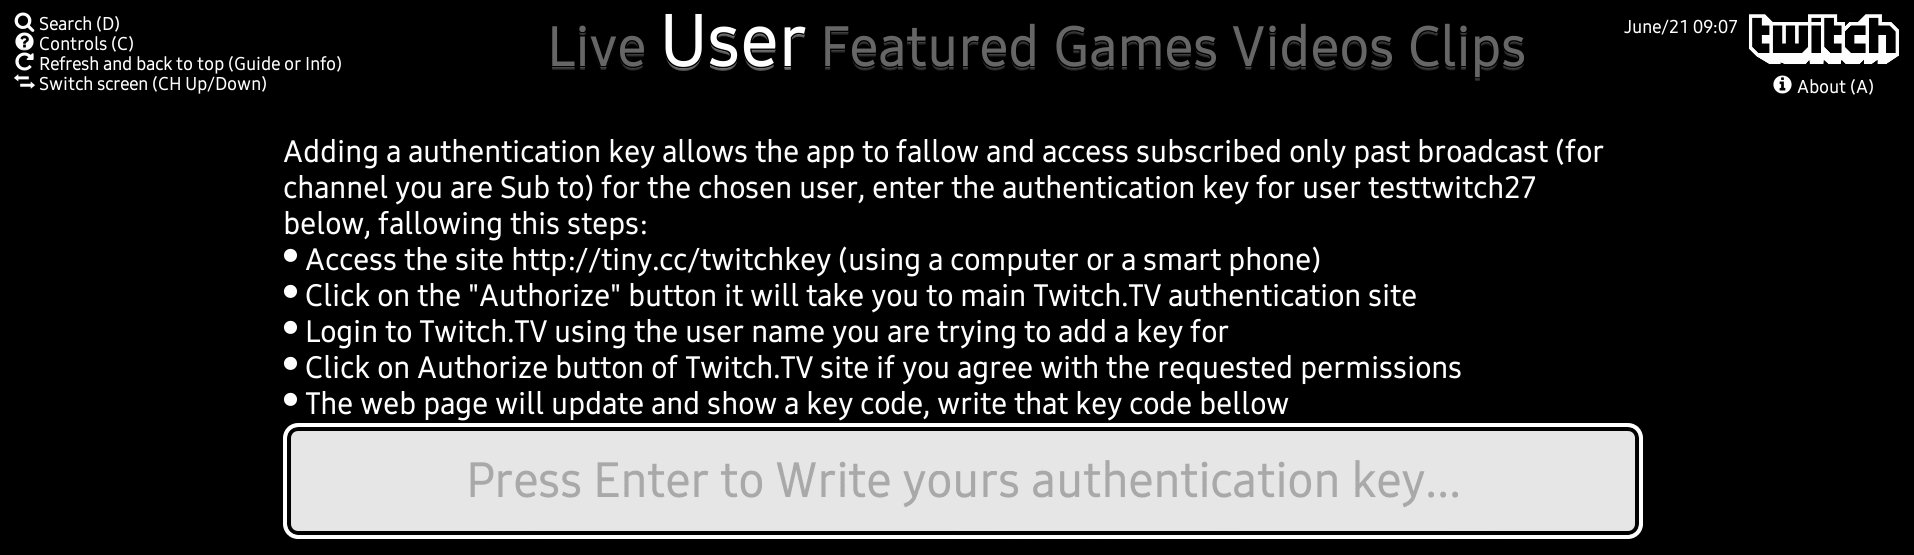
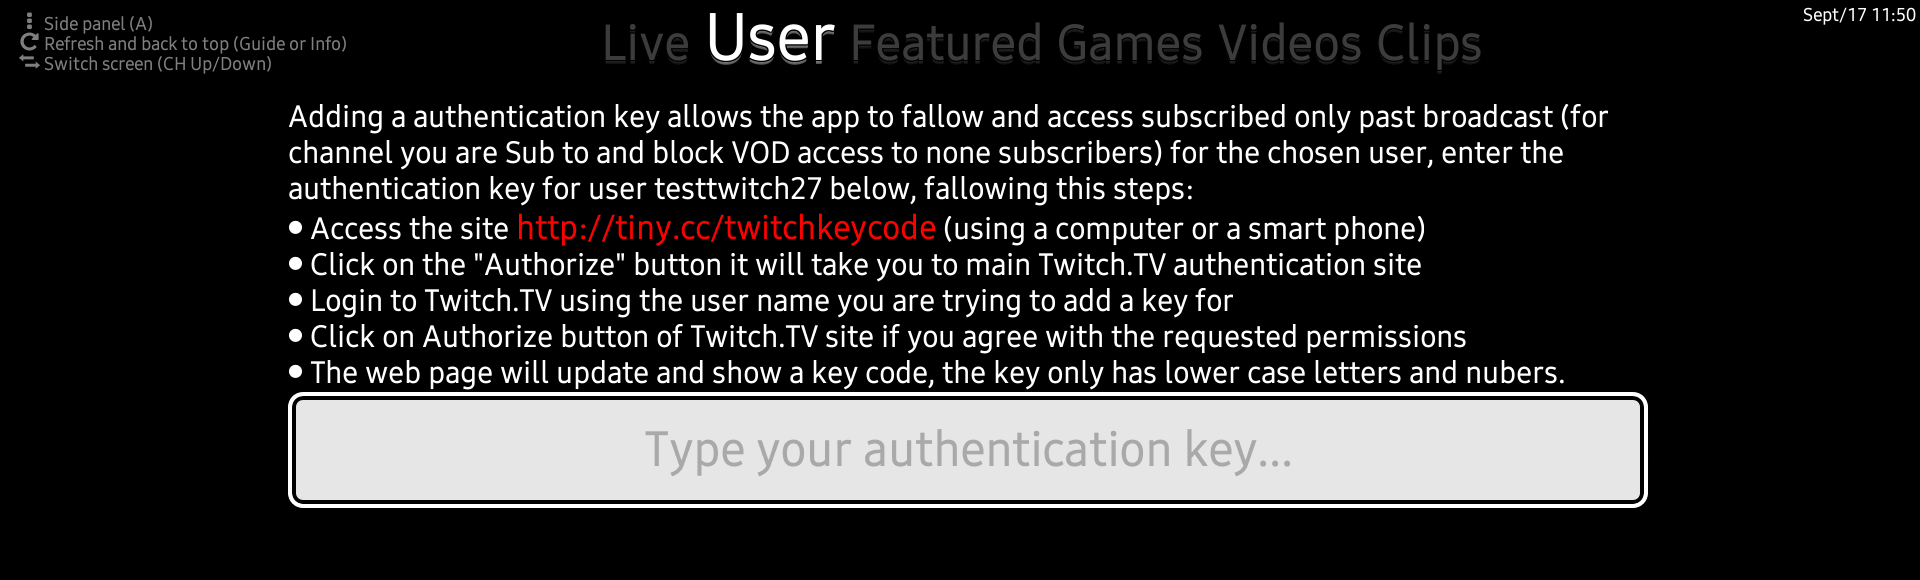
Update autentication key screen and screenshots

diff --git a/app/languages/pt_BR.js b/app/languages/pt_BR.js
@@ -117,11 +117,11 @@ function pt_BRLang() {
 
     STR_OAUTH_IN = "Adicionando uma chave de autenticação para um usuário, permite ao aplicativo seguir e assistir a transmissões anteriores reservadas somente para inscritos (Em canais que você é inscrito e bloqueião o conteudo para não inscritos), entre com a chave de autenticação do usuário ";
     STR_OAUTH_EXPLAIN1 = " abaixo seguidos os passos:";
-    STR_OAUTH_EXPLAIN2 = "Acesse o site http://tiny.cc/twitchkeycode (usando um computador ou smart phone)";
+    STR_OAUTH_EXPLAIN2 = "Acesse o site link_link (usando um computador ou smart phone)";
     STR_OAUTH_EXPLAIN3 = "Clique no botão \"Authorize\" assim vai abrir o site de autenticação do Twitch.TV";
     STR_OAUTH_EXPLAIN4 = "Faço login no Twitch.TV usando o usuário que você esta tentando adicionar a chave";
     STR_OAUTH_EXPLAIN5 = "Clique no botão de autorizar no site do Twitch.TV se você esta de acordo com as permissões";
-    STR_OAUTH_EXPLAIN6 = "A pagina vai atualizar e mostrar a chave de acesso no centro (só tem letra minuscula), escreva esta no aplicativo";
+    STR_OAUTH_EXPLAIN6 = "A pagina vai atualizar e mostrar a chave de acesso esta só tem letra minuscula e números";
     STR_USER_CODE = " Adicione uma chave de autenticação";
     STR_USER_CODE_OK = "Chave adicionada OK";
     STR_KEY_BAD = "O teste da chave falhou, sera necessário adicionar uma nova";

diff --git a/app/languages/en_US.js b/app/languages/en_US.js
@@ -130,11 +130,11 @@ function en_USLang() {
     STR_UPDATE_MAIN_3 = "Improves how the app runs in the background";
     STR_OAUTH_IN = "Adding a authentication key allows the app to fallow and access subscribed only past broadcast (for channel you are Sub to and block VOD access to none subscribers) for the chosen user, enter the authentication key for user ";
     STR_OAUTH_EXPLAIN1 = " below, fallowing this steps:";
-    STR_OAUTH_EXPLAIN2 = "Access the site http://tiny.cc/twitchkeycode (using a computer or a smart phone)";
+    STR_OAUTH_EXPLAIN2 = "Access the site link_link (using a computer or a smart phone)";
     STR_OAUTH_EXPLAIN3 = "Click on the \"Authorize\" button it will take you to main Twitch.TV authentication site";
     STR_OAUTH_EXPLAIN4 = "Login to Twitch.TV using the user name you are trying to add a key for";
     STR_OAUTH_EXPLAIN5 = "Click on Authorize button of Twitch.TV site if you agree with the requested permissions";
-    STR_OAUTH_EXPLAIN6 = "The web page will update and show a key code, write that key code bellow";
+    STR_OAUTH_EXPLAIN6 = "The web page will update and show a key code, the key only has lower case letters and nubers.";
     STR_USER_CODE = " Add Authentication key";
     STR_USER_CODE_OK = "Key added OK";
     STR_KEY_BAD = "Key test fail, it\'s needed to add new one";

diff --git a/app/specific/Main.js b/app/specific/Main.js
@@ -552,6 +552,7 @@ function Main_SwitchScreen() {
     Main_CounterDialogRst();
     if (Main_Go === Main_Live) Live_init();
     else if (Main_Go === Main_addUser) AddUser_init();
+    else if (Main_Go === Main_addCode) AddCode_init();
     else if (Main_Go === Main_games) Games_init();
     else if (Main_Go === Main_aGame) AGame_init();
     else if (Main_Go === Main_Search) Search_init();
@@ -580,6 +581,7 @@ function Main_SwitchScreen() {
 function Main_ExitCurrent(ExitCurrent) {
     if (ExitCurrent === Main_Live) Live_exit();
     else if (ExitCurrent === Main_addUser) AddUser_exit();
+    else if (ExitCurrent === Main_addCode) AddCode_exit();
     else if (ExitCurrent === Main_games) Games_exit();
     else if (ExitCurrent === Main_aGame) AGame_exit();
     else if (ExitCurrent === Main_Search) Search_exit();

diff --git a/app/languages/default.js b/app/languages/default.js
@@ -99,7 +99,7 @@ function DefaultLang() {
         STR_BR + STR_CLOSE_THIS + '</div>';
 
     STR_OAUTH_EXPLAIN = STR_OAUTH_EXPLAIN1 + STR_BR +
-        STR_DOT + STR_OAUTH_EXPLAIN2 + STR_BR +
+        STR_DOT + STR_OAUTH_EXPLAIN2.replace('link_link', '<div style="display: inline-block; color: #FF0000; font-size: 110%; font-weight: bold;">http://tiny.cc/twitchkeycode</div>') + STR_BR +
         STR_DOT + STR_OAUTH_EXPLAIN3 + STR_BR +
         STR_DOT + STR_OAUTH_EXPLAIN4 + STR_BR +
         STR_DOT + STR_OAUTH_EXPLAIN5 + STR_BR +

diff --git a/index.html b/index.html
@@ -1163,7 +1163,7 @@
                 </div>
             </div>
             <div id="oauth_scroll" class="screen_holder hide">
-                <div id="oauth" class="input_text_box" style="margin-top: 1.5%;">
+                <div id="oauth" class="input_text_box" style="margin-top: 0;">
                     <div id="oauth_text" class="strokedextramini" style="font-size: 190%; font-weight:bold;"></div>
                     <input id="oauth_input" class="input_class" type="text" placeholder="" />
                 </div>
